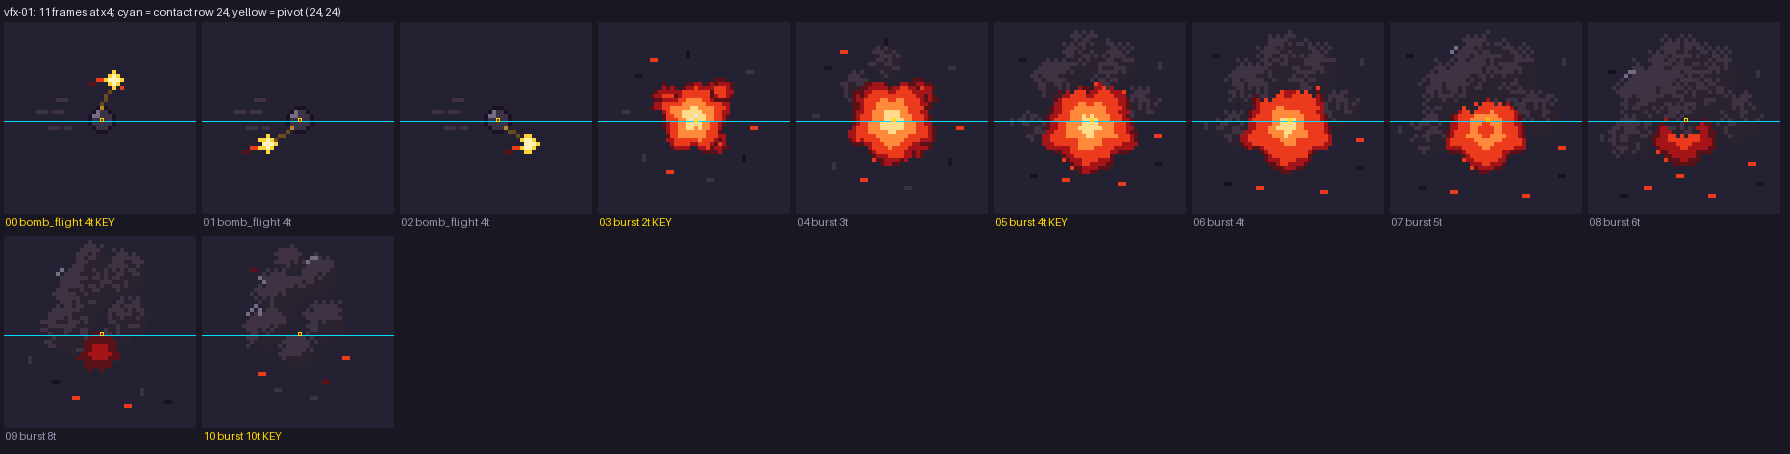
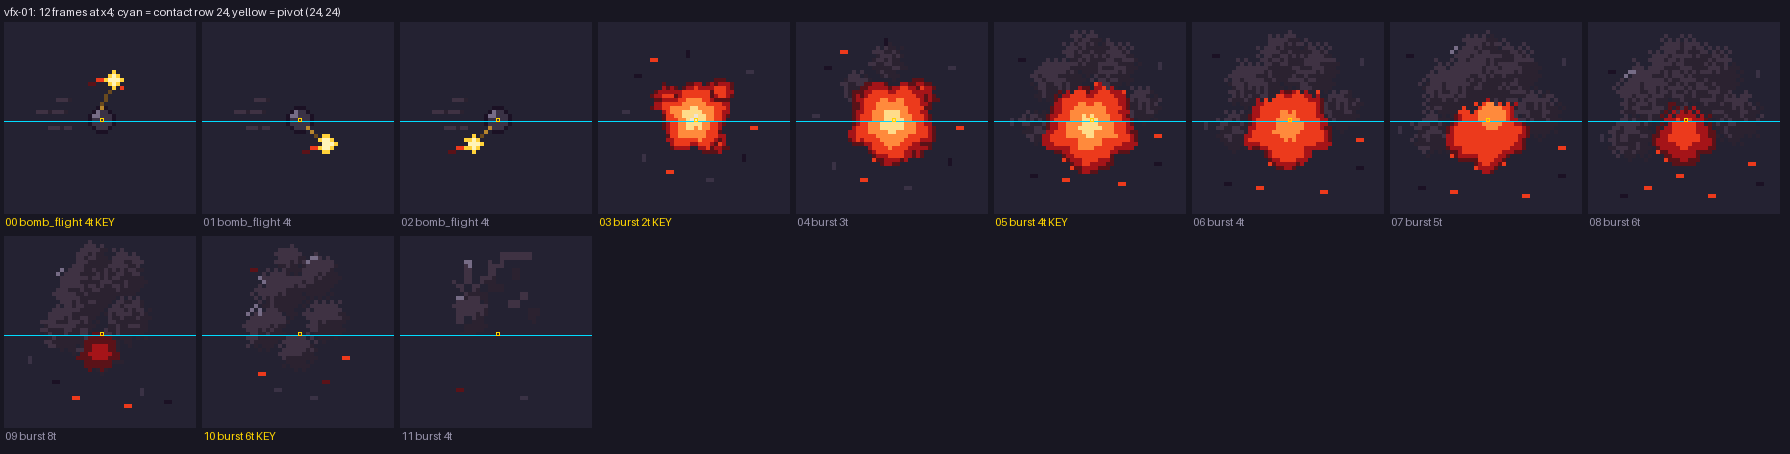
VFX-01: review fixes (bomb order and cord, frames 6 to 8, smoke decay frame, no-lighting and overlap evidence)

diff --git a/scripts/author_vfx01.py b/scripts/author_vfx01.py
@@ -6,6 +6,7 @@ Usage:
     python3 scripts/author_vfx01.py keys [--check]
     python3 scripts/author_vfx01.py key-scale [--out PNG]
     python3 scripts/author_vfx01.py keys-x3 [--out PNG]
+    python3 scripts/author_vfx01.py no-lighting [--out PNG]
 
 ``keys`` (re)writes ``assets/source/vfx/explosion/vfx_01.grid.json`` and ``assets/manifests/vfx-01.json``
 (see ``docs/02-art/vfx-01-spec.md`` sections 3 to 8). Frames 0 (bomb flight), 3 (burst flash), 5 (burst peak)
@@ -58,10 +59,10 @@ KEYS = [p[0] for p in PALETTE]
 ACCENT_KEYS = {p[0] for p in PALETTE if p[3]}
 
 # Frame table: tag, 60 Hz ticks. Atlas frames 0-2 bomb_flight, 3-10 burst.
-TAGS = [("bomb_flight", 0, 2), ("burst", 3, 10)]
-TICKS = [4, 4, 4, 2, 3, 4, 4, 5, 6, 8, 10]
+TAGS = [("bomb_flight", 0, 2), ("burst", 3, 11)]
+TICKS = [4, 4, 4, 2, 3, 4, 4, 5, 6, 8, 6, 4]
 KEY_FRAMES = (0, 3, 5, 10)
-INBETWEENS = (1, 2, 4, 6, 7, 8, 9)                   # drawn from the generator, never frozen
+INBETWEENS = (1, 2, 4, 6, 7, 8, 9, 11)                  # drawn from the generator, never frozen
 DAMAGE_ACTIVE_TICKS = (0, 8)                          # placeholder, burst-local ticks 0..8 inclusive (frames 3-5)
 
 
@@ -221,13 +222,14 @@ SPARK2 = [  # phase 2 crown
     "eYYe.",
     ".ee..",
 ]
-# Hand-drawn 120 degree turns of the cap, cord and crown around the fixed body: phase 0 top, 1 lower back, 2 lower front.
+# Hand-drawn 120 degree turns of the cap, cord and crown around the fixed body, played 0, 2, 1 (a forward tumble):
+# frame 0 top, frame 1 lower front, frame 2 lower back.
 # (cap pixel, cord pixels, crown top-left, crown rows, trail pixels streaming behind to the left)
-BOMB_PHASES = {
-    1: ((22, 26), ((21, 27), (20, 28), (19, 28), (18, 29)), (14, 28), SPARK1,
-        ((13, 31, "o"), (12, 31, "o"), (11, 32, "m"), (10, 32, "m"))),
-    2: ((26, 26), ((27, 27), (28, 27), (29, 28)), (30, 28), SPARK2,
-        ((29, 31, "o"), (28, 31, "o"), (27, 32, "m"), (26, 32, "m"))),
+BOMB_PHASES = {   # atlas frame -> (cap, cord (b = brass mid-tone so it holds on warm floor), crown top-left, crown, trail)
+    1: ((26, 26), ((27, 27, "b"), (28, 28, "n")), (29, 28), SPARK2,
+        ((28, 31, "o"), (27, 31, "o"), (26, 32, "m"), (25, 32, "m"))),
+    2: ((22, 26), ((21, 27, "b"), (20, 28, "n")), (16, 28), SPARK1,
+        ((15, 31, "o"), (14, 31, "o"), (13, 32, "m"), (12, 32, "m"))),
 }
 
 
@@ -247,8 +249,8 @@ def bomb_flight(phase: int = 0) -> list[str]:
         cap, cord, crown, rows, trail = BOMB_PHASES[phase]
         c.stamp(21, 21, BODY7)                                    # same body and fixed highlight
         c.put(cap[0], cap[1], "b")
-        for x, y in cord:
-            c.put(x, y, "n")
+        for x, y, k in cord:
+            c.put(x, y, k)
         c.stamp(crown[0], crown[1], rows)
         for x, y, k in trail:
             c.put(x, y, k)
@@ -368,9 +370,11 @@ def smoke_pick(t, dx, dy, x, y, dither: float = 0.80):
     return "Q" if v > 0.48 else "c" if v > 0.0 else "s"
 
 
-def ring_pick(t, dx, dy, x, y):
-    """Frame 7: no G, a g ring around an o centre."""
-    return "o" if t < 0.20 else "g" if t < 0.44 else "o" if t < 0.80 else "r" if t < 0.93 else "m"
+def patch_pick(t, dx, dy, x, y):
+    """Frame 7: no G, one solid off-centre g patch high in the fire (heat rises), o around it, no hole."""
+    if (dx - 1.5) ** 2 + (dy + 3.5) ** 2 < 3.4 ** 2 + ((h2(x, y, 8) % 100) / 100.0) * 2:
+        return "g"
+    return "o" if t < 0.78 else "r" if t < 0.92 else "m"
 
 
 def burst_between(n: int) -> list[str]:
@@ -389,7 +393,7 @@ def burst_between(n: int) -> list[str]:
     elif n == 6:    # cooling: G under 20 px, more o, smoke lobes wider
         for cx, cy, r, sd in PEAK_SMOKE:
             c.blob(cx, cy + 1, r * 1.12, sd, 0.16, sm)
-        fire(c, CX, CY + 2, 11.0, 31, 0.18, fire_pick(0.21, 0.42, 0.80, 0.93))
+        fire(c, CX, CY + 2, 10.5, 31, 0.18, fire_pick(-1.0, 0.34, 0.80, 0.93))   # no G: cooler than the damage window
         for cx, cy, r, sd in ((18, 15, 5.0, 27), (29, 14, 4.5, 28)):
             c.blob(cx, cy, r, sd, 0.18, sm)
         chunks = ((5, 8, "K", True), (42, 9, "q", False), (3, 25, "q", False), (41, 36, "K", True), (8, 40, "K", True))
@@ -397,7 +401,7 @@ def burst_between(n: int) -> list[str]:
     elif n == 7:    # G gone, g ring only, smoke over the top half
         for cx, cy, r, sd in PEAK_SMOKE:
             c.blob(cx, cy + 2, r * 1.25, sd, 0.16, sm)
-        fire(c, CX, CY + 3, 10.0, 31, 0.18, ring_pick)
+        fire(c, CX, CY + 3, 10.0, 33, 0.22, patch_pick)
         for cx, cy, r, sd in ((18, 17, 6.0, 27), (29, 16, 5.5, 28), (24, 14, 6.5, 29)):
             c.blob(cx, cy, r, sd, 0.18, sm)
         chunks = ((4, 8, "K", True), (43, 9, "q", False), (2, 26, "q", False), (42, 38, "K", True), (7, 41, "K", True))
@@ -407,8 +411,8 @@ def burst_between(n: int) -> list[str]:
             c.blob(cx, cy + 3, r * 1.35, sd, 0.16, sm)
         fire(c, CX, CY + 4, 8.0, 31, 0.18,
              lambda t, dx, dy, x, y: "o" if t < 0.45 else "r" if t < 0.80 else "m")
-        for cx, cy, r, sd in ((19, 19, 7.0, 27), (29, 19, 6.5, 28), (24, 17, 7.0, 29), (24, 24, 5.0, 30)):
-            c.blob(cx, cy, r, sd, 0.18, sm)
+        for cx, cy, r, sd in ((16, 22, 5.5, 27), (31, 21, 5.0, 28), (24, 17, 6.0, 29)):   # ragged cover, fire lumps show through
+            c.blob(cx, cy, r, sd, 0.32, lambda t, dx, dy, x, y: smoke_pick(t, dx, dy, x, y, 0.55))
         chunks = ((5, 12, "K", True), (42, 12, "q", False), (3, 28, "q", False), (42, 40, "K", True), (8, 43, "K", True))
         grit = ((14, 41), (30, 43), (40, 35), (22, 38))
     else:           # 9: shrinking r m ember core inside the smoke, puffs begin to dither
@@ -427,6 +431,25 @@ def burst_between(n: int) -> list[str]:
     return c.rows()
 
 
+def smoke_wisps() -> list[str]:
+    """Frame 11: the last thin wisps of frame 10's puffs (about 150 px), so the smoke thins before it despawns."""
+    c = Canvas()
+
+    def wisp(t, dx, dy, x, y):
+        if h2(x // 2, y // 2, 9) % 100 > 58 or t > 0.9:      # clumped in 2 px pairs, never a solid mass
+            return None
+        v = (-dy - dx * 0.6) / 8.0 + ((h2(x, y, 6) % 100) / 100.0 - 0.5) * 0.45
+        return "Q" if v > 0.7 else "c" if v > -0.1 else "s"
+
+    for cx, cy, r, sd in ((20, 11, 6.5, 41), (29, 7, 5.0, 42), (17, 20, 5.5, 43), (31, 18, 4.5, 44)):
+        c.blob(cx, cy, r, sd, 0.16, wisp)
+    for x, y, k in ((14, 38, "m"), (30, 40, "q")):          # the last embers and debris fall
+        chunk(c, x, y, k, True)
+    c.despeckle()
+    c.cleanup()
+    return c.rows()
+
+
 # --------------------------------------------------------------------------- grid, manifest
 def key_rows() -> dict[int, list[str]]:
     return {0: bomb_flight(), 3: burst_flash(), 5: burst_peak(), 10: smoke_fade()}
@@ -437,6 +460,7 @@ def all_rows() -> dict[int, list[str]]:
     rows[1], rows[2] = bomb_flight(1), bomb_flight(2)
     for n in (4, 6, 7, 8, 9):
         rows[n] = burst_between(n)
+    rows[11] = smoke_wisps()
     return rows
 
 
@@ -481,8 +505,8 @@ def build_manifest() -> dict:
         "owner": "AI-authored VFX candidate (fan-concept layer: Goblin Bomb Bard bomb and Rot Sticker burst; runtime role IP-neutral thrown explosive and blast burst)",
         "tool_version": "LibreSprite=1.3 / Aseprite-compatible",
         "provenance": {
-            "origin": ("VFX-01: 4 key frames (atlas frames 0, 3, 5, 10, fixture tests/fixtures/vfx-01_keys.json) and 7 in-betweens "
-                       "(1, 2, 4, 6, 7, 8, 9) rasterized natively by scripts/author_vfx01.py from rules and a fixed-seed integer hash; "
+            "origin": ("VFX-01: 4 key frames (atlas frames 0, 3, 5, 10, fixture tests/fixtures/vfx-01_keys.json) and 8 in-betweens "
+                       "(1, 2, 4, 6, 7, 8, 9, 11) rasterized natively by scripts/author_vfx01.py from rules and a fixed-seed integer hash; "
                        "layer body"),
             "generator": "Draft spec and keys: Claude Sonnet; design edit and key freeze: Claude Opus; silhouette-gate fixes, in-betweens and execution: Claude Sonnet; art review pending. No image-model raster output, no tracing, no resampling",
             "generated_art": True,
@@ -586,14 +610,30 @@ def keys_x3(out: Path) -> None:
     print(f"wrote {out.relative_to(ROOT)} {sheet.size}")
 
 
+def no_lighting(out: Path) -> None:
+    """The review scene (peak behind Carl, bursts 8 px above the walking line, no VFX ground shadows) with the A1 pass off."""
+    sys.path.insert(0, str(ROOT))
+    from scripts.pixelart.config import load_config
+    from scripts.pixelart.common import grid_images
+    from scripts.pixelart import scene
+    cfg = load_config(ROOT / "assets/source/vfx/explosion/vfx_01.pixelart.json")
+    img = scene.render_scene(cfg, grid_images(build_grid()), 3, lit=False)
+    out.parent.mkdir(parents=True, exist_ok=True)
+    img.save(out)
+    print(f"wrote {out.relative_to(ROOT)} {img.size}")
+
+
 def main(argv=None) -> int:
     ap = argparse.ArgumentParser(description=__doc__.split("\n")[0])
-    ap.add_argument("mode", choices=("keys", "key-scale", "keys-x3"))
+    ap.add_argument("mode", choices=("keys", "key-scale", "keys-x3", "no-lighting"))
     ap.add_argument("--check", action="store_true")
     ap.add_argument("--out", type=Path, default=ROOT / "docs/evidence/vfx-01/key-scale.png")
     a = ap.parse_args(argv)
     if a.mode == "key-scale":
         key_scale(a.out)
+        return 0
+    if a.mode == "no-lighting":
+        no_lighting(ROOT / "docs/evidence/vfx-01/scene_no_lighting_1920x1080.png" if a.out.name == "key-scale.png" else a.out)
         return 0
     if a.mode == "keys-x3":
         keys_x3(ROOT / "docs/evidence/vfx-01/keys-x3.png" if a.out.name == "key-scale.png" else a.out)

diff --git a/scripts/pixelart/scene.py b/scripts/pixelart/scene.py
@@ -36,7 +36,7 @@ class Floor:
             raise ToolkitError(f"no walking line at x={x}")
         return top - 1
 
-    def render(self, entries, k: int) -> Image.Image:
+    def render(self, entries, k: int, lit: bool = True) -> Image.Image:
         """entries: ``(sprite, pivot, x, lift[, shadow])``; the pivot row sits on the walking line (minus lift).
 
         ``shadow`` (default True) draws the ground contact shadow; wall or ceiling creatures opt out.
@@ -48,7 +48,7 @@ class Floor:
             layer.alpha_composite(sprite, pos)
             if not rest or rest[0]:
                 boxes.append((pos[0], pos[1] + lift, pos[0] + sprite.width, pos[1] + lift + sprite.height))
-        return self.ekl.render_lit(self.kit, self.layout, self.view, k, layer, boxes=boxes).convert("RGB")
+        return self.ekl.render_lit(self.kit, self.layout, self.view, k, layer, boxes=boxes, lit=lit).convert("RGB")
 
 
 def reference_idle(name: str):
@@ -83,7 +83,11 @@ def entries_for(cfg: AssetConfig, imgs: list[Image.Image]) -> list[tuple]:
         if actor.get("flip", cfg.get("facing", "right") == "right"):
             img, piv = flip(img, pivot)
         shadow = actor.get("shadow", cfg.get("scene", {}).get("shadow", True))  # False: wall/ceiling creature
-        entries.append((img, piv, actor["x"], actor.get("lift", 0), shadow))
+        entry = (img, piv, actor["x"], actor.get("lift", 0), shadow)
+        if actor.get("behind"):       # drawn before Carl and Donut (effects sit behind the actors)
+            entries.insert(0, entry)
+        else:
+            entries.append(entry)
     for ref in cfg.get("scene", {}).get("references", []):
         # extra approved sprites for direct comparison (e.g. GOB-01 A/B next to a later goblin type)
         grid = load_grid_file(repo_path(ref["grid"]))
@@ -94,6 +98,7 @@ def entries_for(cfg: AssetConfig, imgs: list[Image.Image]) -> list[tuple]:
     return entries
 
 
-def render_scene(cfg: AssetConfig, imgs: list[Image.Image], k: int, floor: Floor | None = None) -> Image.Image:
+def render_scene(cfg: AssetConfig, imgs: list[Image.Image], k: int, floor: Floor | None = None,
+                 lit: bool = True) -> Image.Image:
     """The asset's poses facing Carl and Donut on lit Floor 1; ``k`` 1 is 640x360, 3 is 1920x1080."""
-    return (floor or Floor()).render(entries_for(cfg, imgs), k)
+    return (floor or Floor()).render(entries_for(cfg, imgs), k, lit)

diff --git a/tests/test_art_vfx01.py b/tests/test_art_vfx01.py
@@ -39,7 +39,7 @@ class Vfx01Tests(unittest.TestCase):
     def test_ase_matches_the_grid(self) -> None:
         ase = pg.read_ase(ASE.read_bytes())
         self.assertEqual(ase["canvas"], [48, 48])
-        self.assertEqual(len(ase["frames"]), 11)
+        self.assertEqual(len(ase["frames"]), 12)
         self.assertEqual([f["duration_ms"] for f in ase["frames"]], [f["duration_ms"] for f in self.grid["frames"]])
 
     def test_keys_are_frozen_and_inbetweens_are_drawn(self) -> None:
@@ -47,10 +47,10 @@ class Vfx01Tests(unittest.TestCase):
         self.assertEqual(frozen, set(author.KEY_FRAMES))
         self.assertEqual(json.loads(FIXTURE.read_text())["keys"].keys(), {str(k) for k in frozen})
         self.assertFalse(frozen & set(author.INBETWEENS))
-        self.assertEqual(frozen | set(author.INBETWEENS), set(range(11)))
+        self.assertEqual(frozen | set(author.INBETWEENS), set(range(12)))
         self.assertTrue(self.cfg["rules"]["unique_frames"])
         bodies = [json.dumps(f["cels"]["body"]) for f in self.grid["frames"]]
-        self.assertEqual(len(set(bodies)), 11)          # no in-between is a copy of another frame
+        self.assertEqual(len(set(bodies)), 12)          # no in-between is a copy of another frame
 
     def test_bomb_rotation_keeps_the_body_and_highlight_fixed(self) -> None:
         def iron(n: int) -> set:
@@ -60,7 +60,7 @@ class Vfx01Tests(unittest.TestCase):
         self.assertGreaterEqual(sum(ch == "Q" for *_xy, ch in iron(0)), 3)   # the 3 px upper-left highlight
         for n in (1, 2):
             self.assertEqual(iron(n), iron(0))                               # body and highlight fixed
-            self.assertEqual(sum(r.count("b") for r in self.grid["frames"][n]["cels"]["body"]), 1)
+            self.assertEqual(sum(r.count("b") for r in self.grid["frames"][n]["cels"]["body"]), 2)   # cap + one cord pixel
 
     def test_lobe_cap_removes_tips_and_breaks_45_degree_runs(self) -> None:
         c = author.Canvas()

diff --git a/docs/02-art/vfx-01-spec.md b/docs/02-art/vfx-01-spec.md
@@ -6,7 +6,7 @@
 
 - **Bomb in flight (Bard):** tag `bomb_flight`, 3 frames, a lit fuse spark loop on the Bard's iron bomb; a separate projectile entity.
 - **Explosion burst:** tag `burst`, 8 frames (flash, fireball, peak, cooling fireball, smoke fade). One burst serves the Bard bomb and the Rot Sticker, unscaled and without a palette variant (section 8).
-- One atlas, one grid: `assets/source/vfx/explosion/vfx_01.grid.json`, 11 frames of 48 x 48, pivot (24, 24).
+- One atlas, one grid: `assets/source/vfx/explosion/vfx_01.grid.json`, 12 frames of 48 x 48, pivot (24, 24).
 - Out of scope: scorch decals, floor residue, smoke columns, music-note emitters, the Bard's body frames (BARD-01), the Rot Sticker's body frames (ROT-01), any sound.
 
 ## 2. Canon citations
@@ -76,18 +76,18 @@ The keys are frozen (section 16) with the silhouette-gate fixes (section 17), an
 
 | Topic | Decision | Why |
 | --- | --- | --- |
-| Sheets and tags | One grid, two tags: `bomb_flight` (frames 0 to 2, loop) and `burst` (frames 3 to 10, once). Contact `free` for both. | One atlas keeps one palette and one frame size; the LLAMA-01 spit is the precedent (a `free` tag on the owner's grid, authored at its spawn point). |
+| Sheets and tags | One grid, two tags: `bomb_flight` (frames 0 to 2, loop) and `burst` (frames 3 to 11, once). Contact `free` for both. | One atlas keeps one palette and one frame size; the LLAMA-01 spit is the precedent (a `free` tag on the owner's grid, authored at its spawn point). |
 | Frame and pivot | **48 x 48, pivot (24, 24)** (the centre). Bomb: pivot is the bomb body centre. Burst: pivot is the blast centre. Authored facing right; the bomb mirrors x with the thrower. | Burst art peaks at 40 x 38 px, inside the 32 to 48 px candidates; 4 px margin for debris, smoke may rise to y 2. |
 | Bard spawn | Bomb sprite centre at the frame-10 bomb centre (53, 20) = Bard pivot offset (+25, -35), as in `bard-01-spec.md` section 3. The burst spawns at the bomb's impact point (gameplay decides it). | Canon from BARD-01; the bomb body here is the same 7 x 7 iron bomb stamp. |
 | Rot Sticker burst | **Reuses the same `burst` tag unscaled, no palette variant.** Spawn at the dome centre (12, 16), i.e. Rot pivot (6, 16) offset (+6, 0). Its flame colours (`m r o g G w`) are already the burst ramp, so the same pixels read as the Rot's own glow. | Integer-scaling a drawn burst doubles pixel size and breaks the pixel grid; one atlas is enough because both bursts want the same ember-and-smoke read. |
 | Rot blast size | **One burst serves both now; no `burst_large` in this work order.** The art reads as a blast of about **20 px radius** (fire about 24 px wide, smoke to about 38 px). Rule: the drawn fire and inner smoke at the peak must cover the damage area, so the player reads the danger from the art. The ROT-01 40 px radius (an 80 px circle, wider than Carl is tall) would be an invisible hit zone with this art; the recommendation to gameplay is a radius of 18 to 22 px. A `burst_large` (own 80 x 80 atlas, drawn natively, never runtime-scaled) is a follow-up only if the gameplay spec approves a radius above about 26 px. | Settled question 1 (section 16). A chaff enemy that out-blasts the Bard's bomb would also invert the Floor 1 threat ladder. |
-| Bomb rotation | **Hand-drawn, no runtime rotation.** Frames 0 to 2 turn the fuse cap, cord and spark around the round body in 120 degree steps (top, lower back, lower front); the body stamp and its `Q` highlight stay fixed at the upper left, because the light does not turn with the bomb. Mirror x only. | Settled question 2. Runtime rotation of a 7 x 7 sprite creates jagged mixed pixels and swings the baked highlight. |
+| Bomb rotation | **Hand-drawn, no runtime rotation.** Frames 0 to 2 turn the fuse cap, cord and spark around the round body in 120 degree steps (top, lower front, lower back: atlas order 0, 1, 2 plays as a forward tumble); the body stamp and its `Q` highlight stay fixed at the upper left, because the light does not turn with the bomb. Mirror x only. | Settled question 2. Runtime rotation of a 7 x 7 sprite creates jagged mixed pixels and swings the baked highlight. |
 | Draw order | The burst draws **behind the actors** (the `prop` draw slot, `scene` light group); Carl, Donut and the enemies draw over it. The bomb in flight draws with the actors. | Settled question 3: the peak drawn over Carl hides his torso (comparison panel in `key-scale.png`); behind him, his dark outline silhouettes against the fire. The `scene` group is also the only one where a later emissive registration is allowed (section 5). |
 | Floor impact placement | For a bomb that lands on the floor, place the blast centre 8 px above the walking line; the fire's lower lobes then touch the floor and the smoke rises clear of it. A Rot Sticker on a wall bursts at its dome centre. | The burst is drawn nearly round so it also works against a wall. |
 | Palette variant for Rot | **None.** No olive debris variant. | Settled question 5: debris chunks are 2 px and read only as dark against fire, so a hue swap is invisible at 1x and costs a second palette path; the smoke keys `s c` are already the Rot shell ramp, so the Rot burst already carries its own colours. |
-| Ticks | 60 Hz. `bomb_flight` 3 x 4 = 12 ticks per loop. `burst` 2, 3, 4, 4, 5, 6, 8, 10 = **42 ticks** (0.7 s). | The 2-tick flash is an impact frame; the peak holds 4 + 4 ticks; smoke lingers 10 ticks and ends. |
+| Ticks | 60 Hz. `bomb_flight` 3 x 4 = 12 ticks per loop. `burst` 2, 3, 4, 4, 5, 6, 8, 6, 4 = **42 ticks** (0.7 s; frame 10 holds 6 and the wisp frame 11 holds 4). | The 2-tick flash is an impact frame; the peak holds 4 + 4 ticks; smoke lingers 10 ticks and ends. |
 | Damage-active (placeholder) | Burst-local ticks **0 to 8** (frames 3, 4 and 5, flash through peak). Nothing after the peak is damaging. The bomb in flight has no area box; its projectile hitbox is a gameplay decision. | Matches the ROT-01 placeholder "active from the first burst frame" and the rule that cooling frames are cosmetic. Not approved. |
-| Playback end | `burst` plays once and the entity despawns after frame 10; the smoke frame is not a hold. | Lingering opaque smoke is capped (art-direction VFX rule). |
+| Playback end | `burst` plays once and the entity despawns after frame 11 (the sparse wisps); the smoke frames are not holds. | Lingering opaque smoke is capped (art-direction VFX rule). |
 
 ## 9. Palette `vfx-floor01-v0` (16 of at most 20 colours)
 
@@ -127,14 +127,15 @@ All four are rasterized by `scripts/author_vfx01.py` from lumpy-disc rules with 
 
 | Slot | Currently | Target |
 | --- | --- | --- |
-| 1, 2 | copies of frame 0 | Same body stamp and `Q` highlight; the cap, cord and spark crown moved 120 and 240 degrees around the body by hand (lower back, lower front); the spark trail always streams behind (left); the spark crown alternates `Y`/`e` shapes (3 distinct sparks across 3 frames, clean loop seam). |
+| 1, 2 | copies of frame 0 | Same body stamp and `Q` highlight; the cap, cord and spark crown moved 120 and 240 degrees around the body by hand (atlas frame 1 lower front, frame 2 lower back, so the loop tumbles forward); the spark trail always streams behind (left); the spark crown alternates `Y`/`e` shapes (3 distinct sparks across 3 frames, clean loop seam). |
 | 4 | copy of frame 3 | Fireball growing from the flash: radius 10 to 11, the tongues merging into the body, `G` core 20 to 26 px, `w` gone, first smoke lobes above. |
-| 6 | copy of frame 5 | Fireball cooling: radius 15, `G` under 20 px, more `o`, smoke lobes widen. |
-| 7 | copy of frame 5 | `G` gone, `g` ring only, smoke covers the top half. |
-| 8 | copy of frame 5 | Fireball under 11 px radius in `o r m`, smoke dominant, embers falling. |
+| 6 | copy of frame 5 | Fireball cooling: no `G` (it follows the damage window, so it no longer reads peak-hot), `g` band and more `o`, smoke lobes widen. |
+| 7 | copy of frame 5 | `G` gone, one solid off-centre `g` patch high in the `o` fire (no ring, no hole, broken outline), smoke covers the top half. |
+| 8 | copy of frame 5 | Fireball under 11 px radius in `o r m`, smoke dominant with a ragged edge and fire lumps showing through (no clean bowl), embers falling. |
+| 11 | new | Sparse 2 px-clumped smoke wisps (about 150 px) and the last falling ember and debris; follows key 10 so the smoke thins before it despawns. |
 | 9 | copy of frame 5 | A shrinking `r m` ember core inside the smoke; smoke puffs begin to dither. |
 
-The hottest key present in a frame never rises from frame 3 to frame 10, and the smoke area grows until frame 8 and shrinks after frame 9.
+The hottest key present in a frame never rises from frame 3 to frame 11, and the smoke area grows until frame 8 and shrinks after frame 9.
 
 ## 12. Acceptance targets and validators
 
@@ -142,7 +143,7 @@ The hottest key present in a frame never rises from frame 3 to frame 10, and the
 - **No blowout:** `w` at most 12 px in frame 3 and none elsewhere; the `G` core at most 60 px (V5); whole key frames cover under 45 % of the cell (test). The glow is baked and must read with the A1 pass on and off.
 - **Grounded, smoky look, not a cartoon star burst:** an irregular lumpy fire cloud with a dark rim; no radial spikes on any frame (outward motion is read from thrown debris); from the peak on, dark violet smoke is part of the silhouette; the last frame is smoke and debris with no flame.
 - **Player visibility:** the burst draws behind the actors (section 8); Carl's silhouette must stay whole over every burst frame. Checked on the lit scene for the peak (`key-scale.png`, right-hand panels).
-- Toolkit validators pass (`python3 -m scripts.pixelart validate assets/source/vfx/explosion/vfx_01.pixelart.json`). V05 isolated pixels: 0. V06 orphan pixels: **at most 9**, the same as the character sets (the keys measure 5, 9, 0 and 0: debris and embers are 2 px chunks and `despeckle` merges smoke noise, so effects need no looser limit). V12 unique frames: on (all 11 frames differ).
+- Toolkit validators pass (`python3 -m scripts.pixelart validate assets/source/vfx/explosion/vfx_01.pixelart.json`). V05 isolated pixels: 0. V06 orphan pixels: **at most 9**, the same as the character sets (the keys measure 5, 9, 0 and 0: debris and embers are 2 px chunks and `despeckle` merges smoke noise, so effects need no looser limit). V12 unique frames: on (all 12 frames differ).
 - Config rules: V1 bomb compact, V2 flash small, V3 peak 32 to 44 px wide, V4 smoke within 40 x 42, V5 white and core caps, V6 lit fuse core in the bomb frame.
 
 ## 13. Evidence
@@ -151,7 +152,7 @@ The hottest key present in a frame never rises from frame 3 to frame 10, and the
 | --- | --- |
 | `docs/evidence/vfx-01/key-scale.png` | Top: lit Floor 1 at 1x, Carl, the Bard (frame 10), the four keys in order bomb, flash, peak, smoke, then the peak with Carl overlapping it twice: burst behind Carl (decided) and burst over Carl (rejected, for comparison). Bottom: the four keys at 4x. |
 | `docs/evidence/vfx-01/keys-x3.png` | The four frozen keys at 3x on the dark brick value, unlit. |
-| `docs/evidence/vfx-01/review-pack/` | Toolkit review pack: `01_contact_sheet_x4.png` (all 11 frames), `02_lit_scene_640x360_x3.png`, `03_tell_attack_strip.png`, `validator_summary.txt`. |
+| `docs/evidence/vfx-01/review-pack/` | Toolkit review pack: `01_contact_sheet_x4.png` (all 12 frames), `02_lit_scene_640x360_x3.png`, `03_tell_attack_strip.png`, `validator_summary.txt`. |
 
 Regenerate with `python3 scripts/author_vfx01.py key-scale` (needs `scripts/export_assets.sh` first) and `python3 scripts/author_vfx01.py keys-x3`. The review must also render with `--no-lighting`; not done yet.
 
@@ -188,3 +189,17 @@ Gate fixes (reviewer-prescribed, so the affected keys 0, 3 and 5 are re-frozen i
 In-betweens (all from generator rules, same seeds as the keys, never frozen): 1 and 2 turn the cap (`b`), cord (`n`) and spark crown to the lower back and lower front with the body and highlight fixed and three different crown shapes (`SPARK`, `SPARK1`, `SPARK2`); 4 grows the fire from the flash (radius 10.5, `G` 27 px, no `w`, tongues merged, first smoke above); 6 cools (`G` 16 px); 7 has no `G` and a `g` ring around an `o` centre; 8 is `o r m` only (radius 8) under dominant smoke; 9 is a shrinking `r m` core in dithered puffs of frame 10's layout. Smoke area (`c s Q`): 362, 443, 563, 699, 492, 456 px for frames 5 to 10, so it grows to frame 8 and shrinks after frame 9.
 
 Ambiguities: (a) section 11 asks frame 6 for "radius 15"; read as the whole burst extent (fire plus smoke), not the fire, since a 15 px fire radius would exceed the peak and break the "hottest key never rises" rule; the fire radius is 11 (peak 11.5). (b) Frame 8's smoke rolls cover the fire's upper half, so the fire reads as a dark-red crescent under smoke; this is the intended "smoke dominant" read. (c) Frame 7's `g` ring around an `o` centre reads slightly as a donut at 4x; it is the spec's "g ring only" and is a 5-tick frame. (d) The review pack was rendered with lighting on; the `--no-lighting` render is still open.
+
+## 18. Review fixes (blind review, execution items)
+
+Reviewer-prescribed; the four keys 0, 3, 5 and 10 are not changed, so the freeze fixture is unchanged.
+
+1. **Bomb:** frames 1 and 2 swap to the order 0, 2, 1 (forward tumble for a right-facing throw), the cord is 2 px shorter with one `b` pixel so the spark stays attached on the warm floor.
+2. **Frame 7:** one solid off-centre `g` patch, no ring; fire seed and amplitude changed for a broken outline (section 11 wording amended).
+3. **Frame 8:** ragged, sparse smoke cover with fire lumps showing through (no clean bowl).
+4. **Smoke despawn:** a decay step inside the 42-tick budget. Frame 10 now holds 6 ticks and a new in-between, frame 11 (sparse wisps), holds 4. The atlas has 12 frames; the manifest, `.ase`, config and tests follow. Frame 9 holds 8 ticks as before.
+5. **Frame 6:** `G` removed, so only frames 3 to 5 (the damage-active placeholder window) carry the core.
+6. **Evidence:** `docs/evidence/vfx-01/scene_no_lighting_1920x1080.png` (`python3 scripts/author_vfx01.py no-lighting`, A1 pass off); the review-pack lit scene now shows the peak behind Carl and the effects 8 px above the walking line with no ground shadows (`scene.shadow: false`; the toolkit scene gained a per-actor `behind` flag and an unlit option).
+7. **Gameplay recommendation (replaces the 18 to 22 px range of section 8):** a damage radius of about 16 px, at most 18, because the drawn fire is about 24 x 22 px and the fire plus side smoke about 30 px wide. For 20 px or more the peak fire would need to grow to about 30 px wide.
+8. **Deferred top-tier palette note, not done here:** the smoke `s c` is darker than the board's dusty mauve and reads as coal on lit floor; the option is one lighter mauve key (about `#5e4c66`, one of the four free slots) for lit tops and puff bodies of frames 8 to 11. It changes the palette, so it needs a top-tier decision.
+9. Open for later (not in this fix): E6 flash `w` weight, E7 clumped smoke dither, D2 uneven peak lobes.
